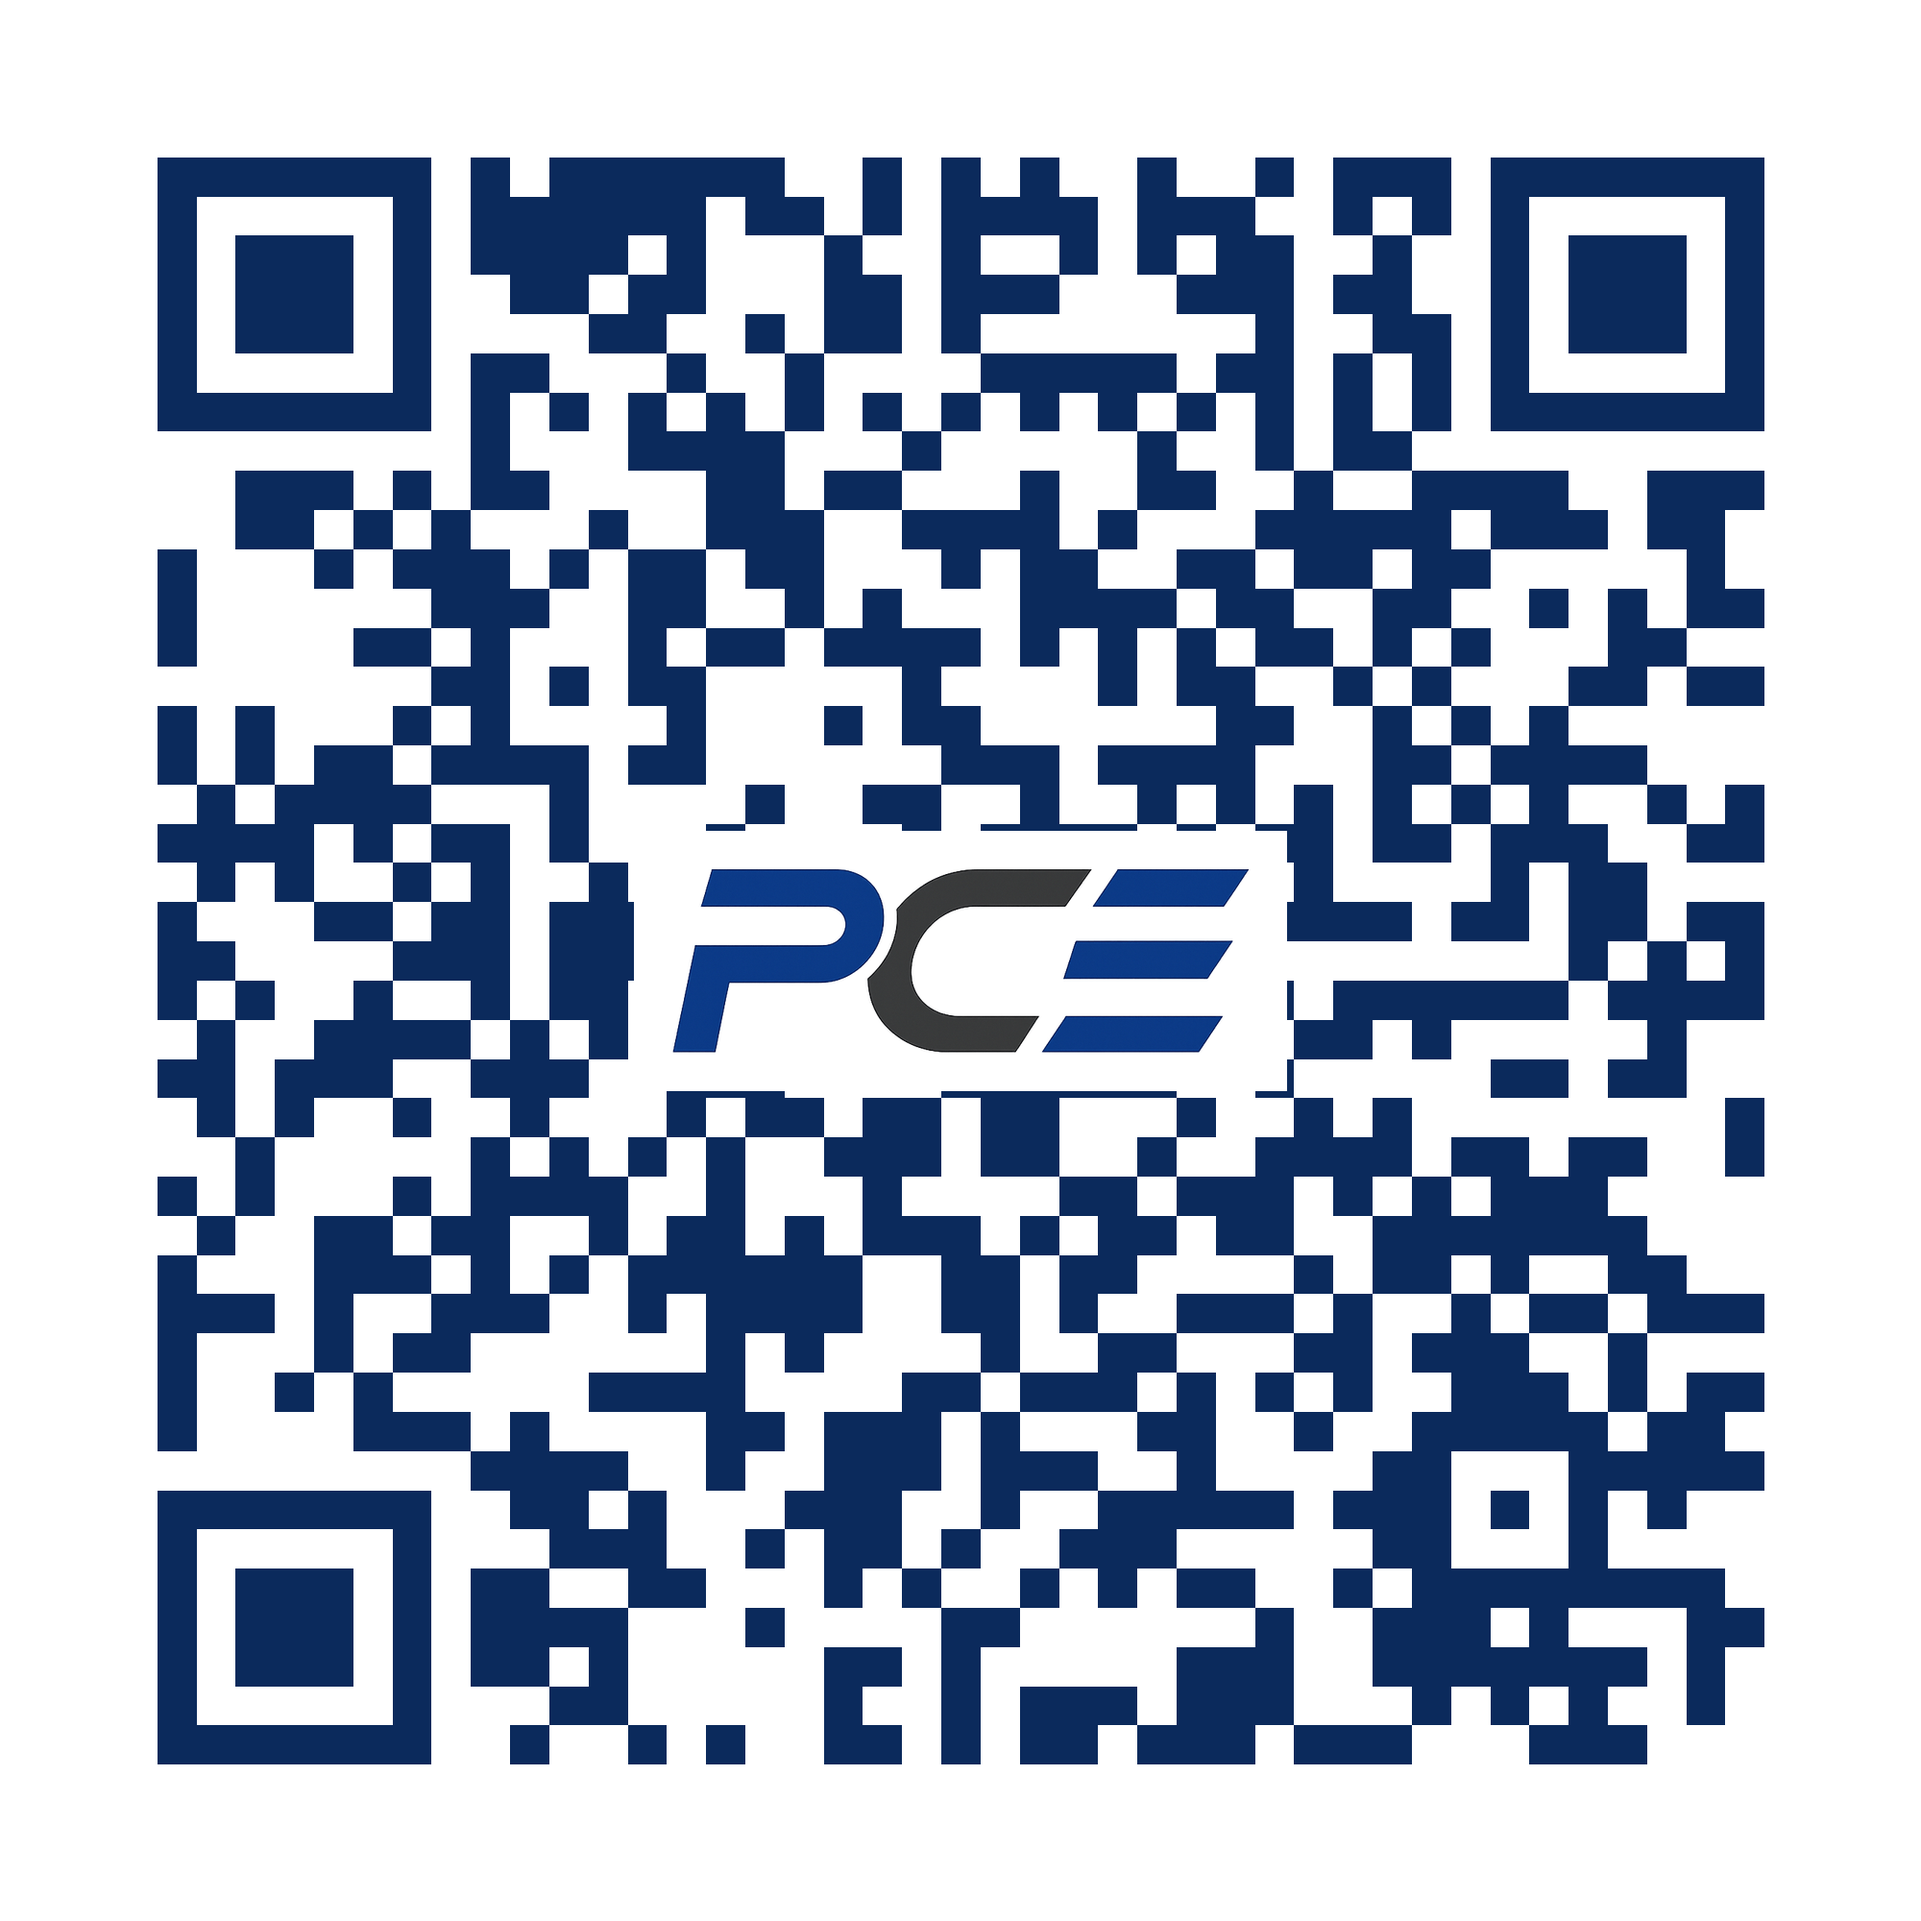
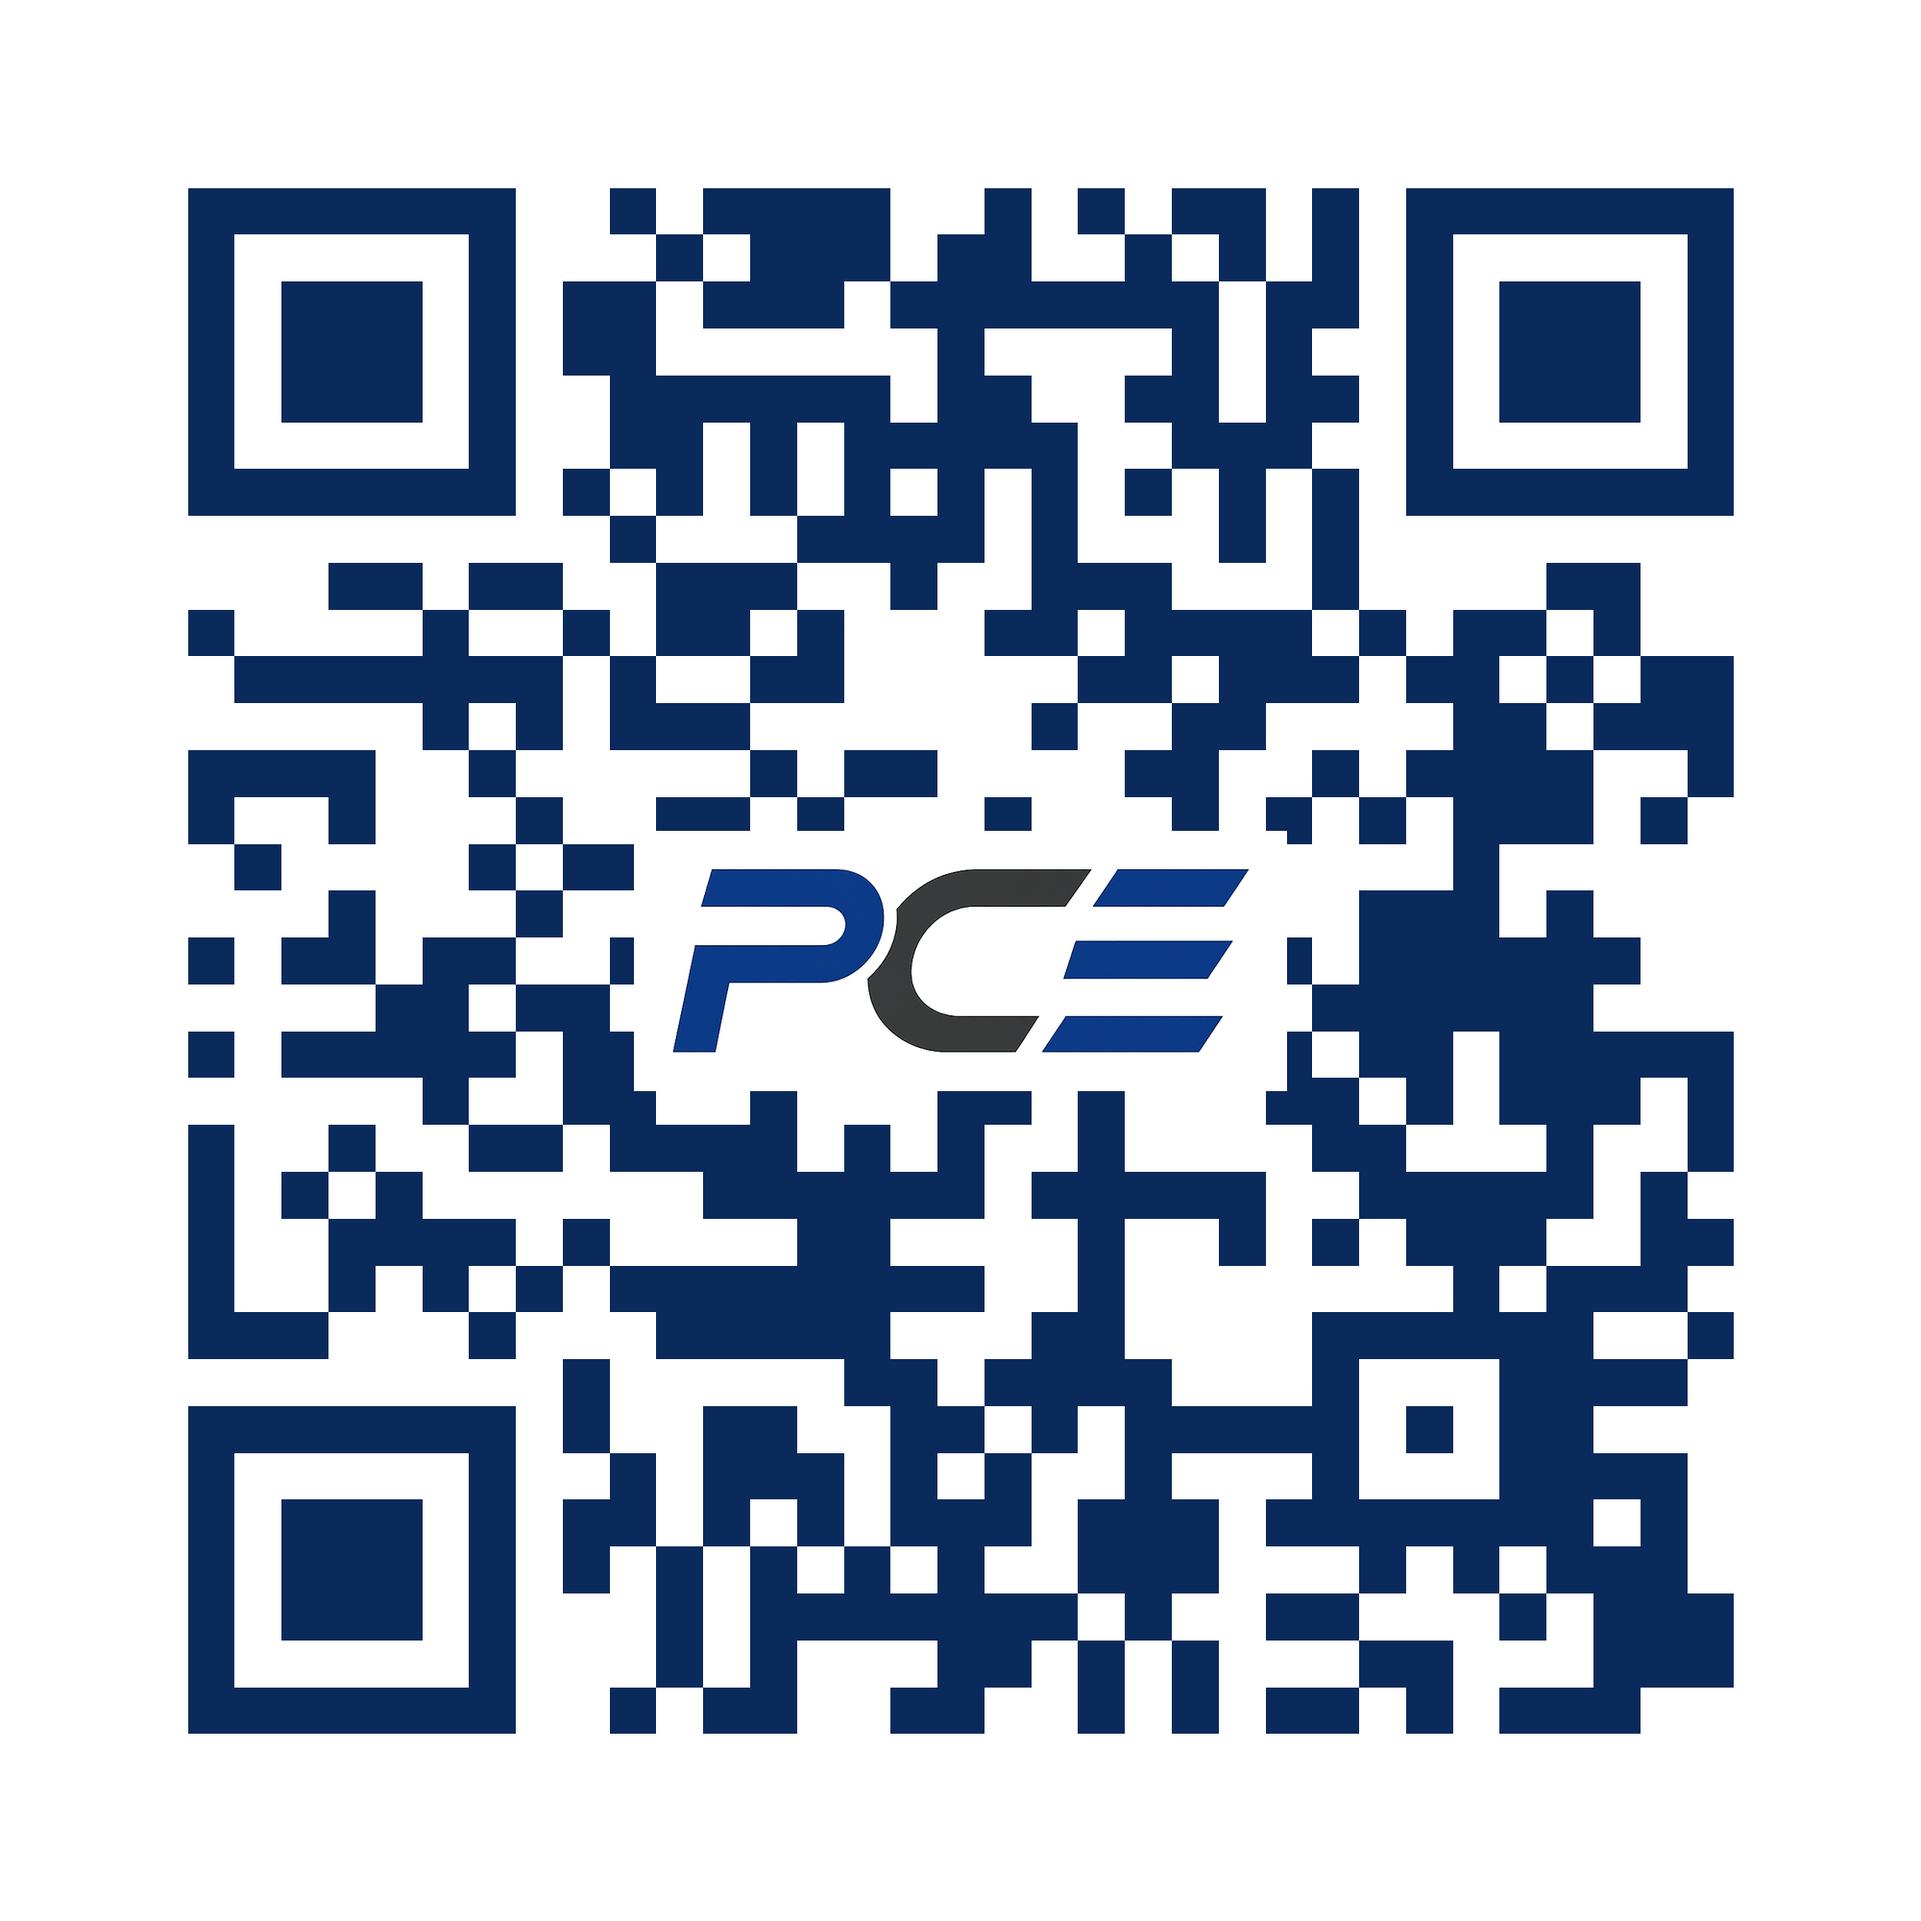
Point QR code at go.pceenergies.com

diff --git a/README.md b/README.md
@@ -12,5 +12,5 @@ Brand colors, fonts and logo come from `pce-website` and `pce-mobile`.
 ## Hosting (GitHub Pages)
 Settings → Pages → Deploy from branch → `main` / root. Point the QR code at the published URL.
 
-## Deploy (Cloudflare)
-`npx wrangler deploy` publishes to https://pce-landing.mickienorman5.workers.dev
+## Deploy
+`vercel deploy --prod` publishes to https://go.pceenergies.com (Vercel project `pce-landing`). The QR code in `qr/` points there.
